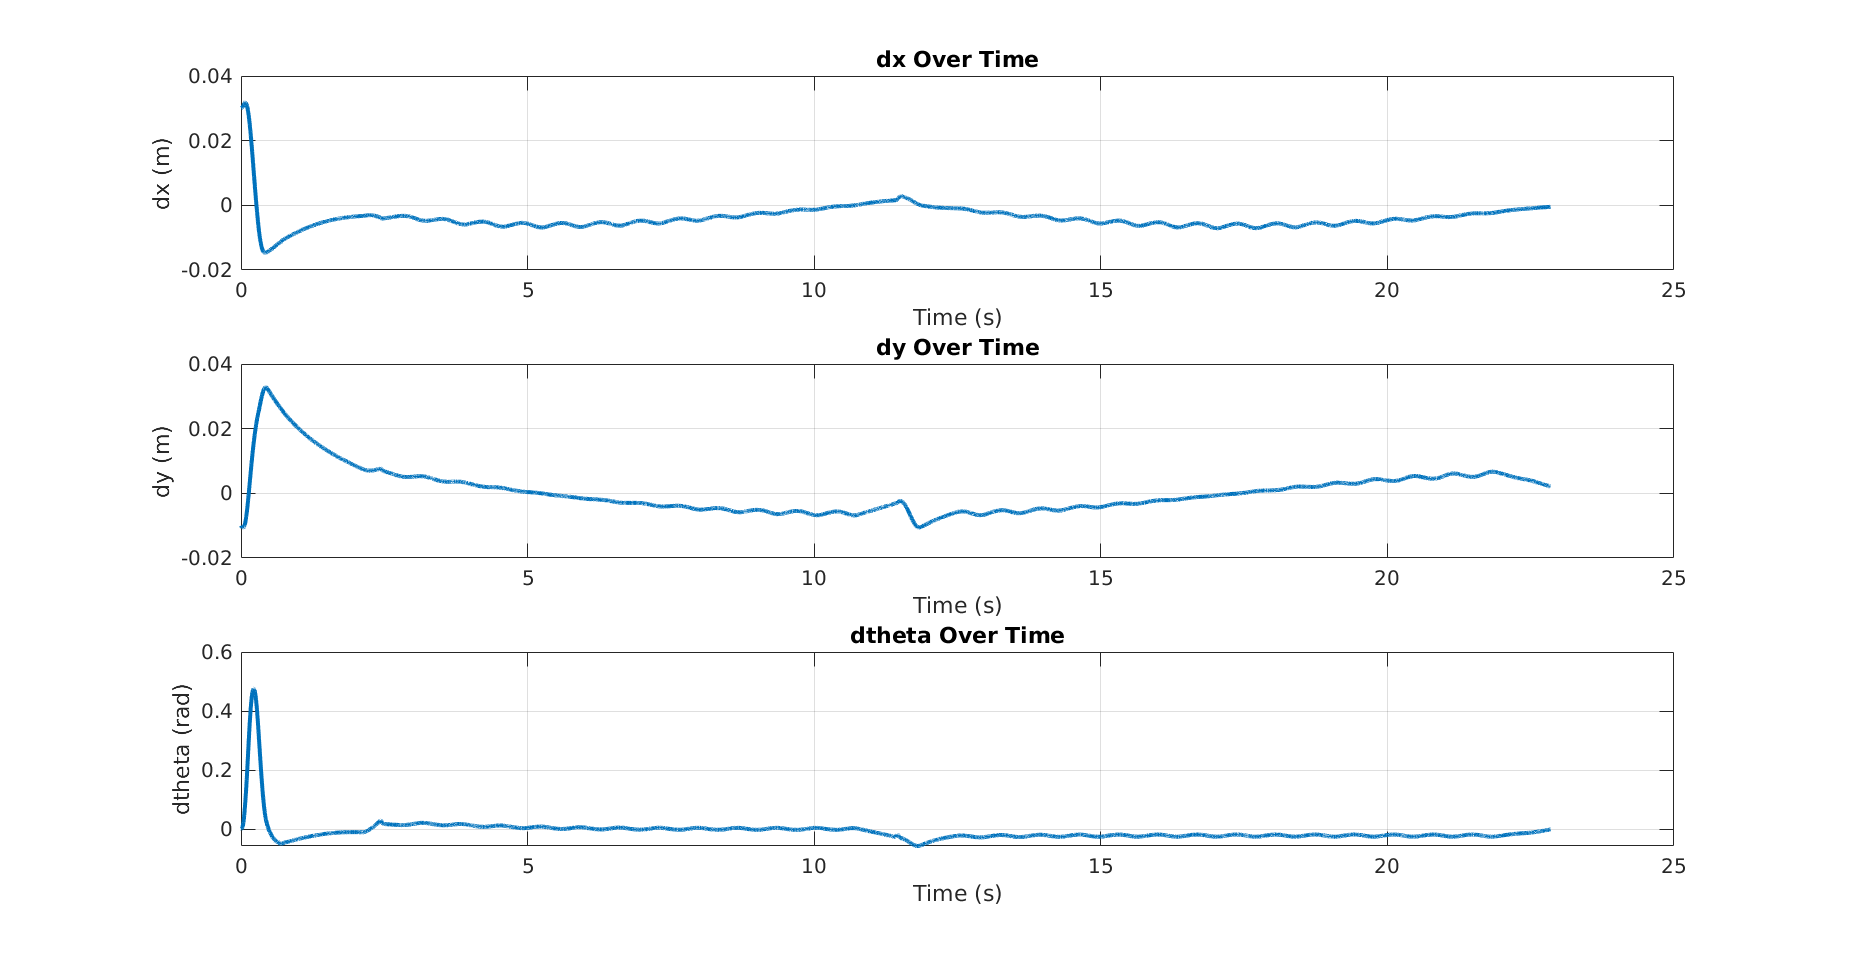
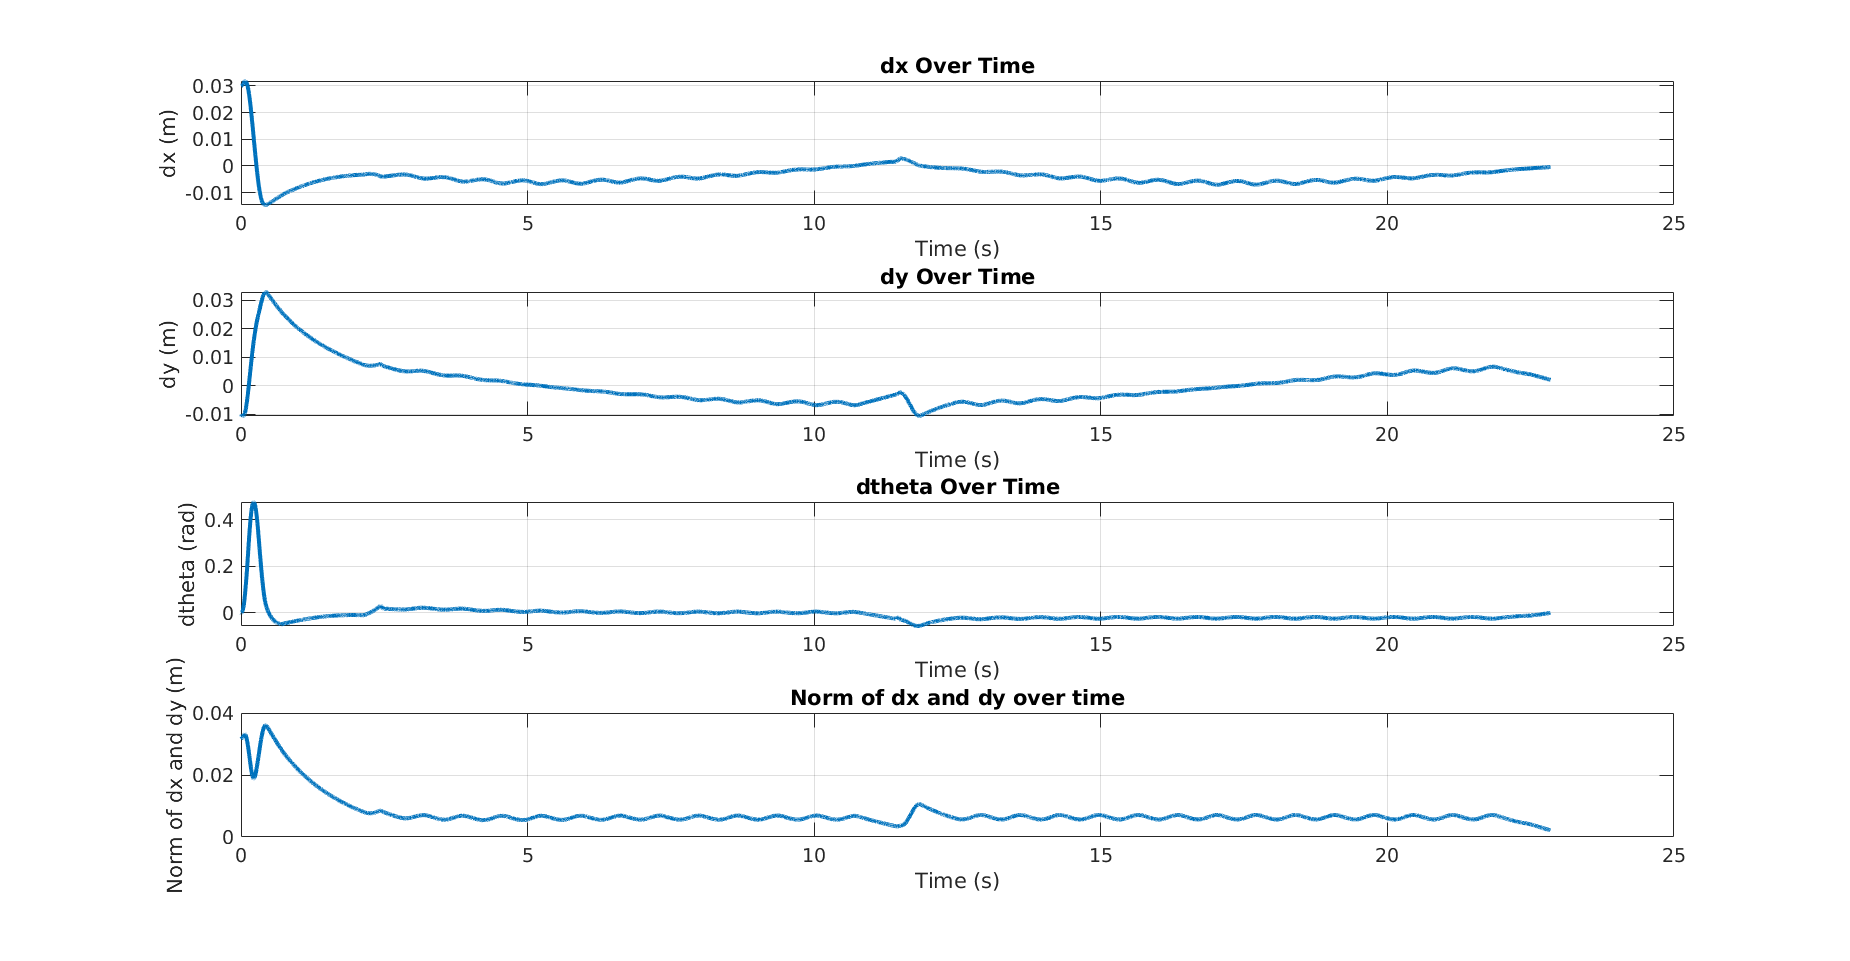
generate new plots

diff --git a/simulation_mpc_one_contact_point.m b/simulation_mpc_one_contact_point.m
@@ -113,9 +113,17 @@ for i = 1:floor(duration/timestep)
         [x_star_mpc, u_star_mpc] = create_mpc_star_input(x_star, u_star, ...
                                     N, i, timestep_parameter);
         tic;
-        mpc_output = solve_MPC_MIQP(x_star_mpc, u_star_mpc, dx(:,i), mu, L, ...
+        [mpc_output, gurobi_solve_time] = solve_MPC_MIQP(x_star_mpc, u_star_mpc, dx(:,i), mu, L, ...
                                            radius, len, N, mpc_timestep,  Q, QN, R, x_start, is_start);
-        solver_times(i) = toc;
+        if i == 1
+            solver_times(i) = toc;
+            gurobi_solve_times(i) = gurobi_solve_time;
+            mpc_activation(i) = 1;
+        else
+            solver_times(round(i * timestep / mpc_timestep)+1) = toc;
+            gurobi_solve_times(round(i * timestep / mpc_timestep)+1) = gurobi_solve_time;
+            mpc_activation(round(i * timestep / mpc_timestep)+1) = mpc_activation(round(i * timestep / mpc_timestep)) + 1;
+        end
         is_start = 0;
         fprintf('Time is: %g\n', time(i));
         fprintf('Error is: %2.4f %2.4f %2.4f %2.4f\n', dx(1,i), dx(2,i), dx(3,i), dx(4,i));
@@ -307,7 +315,7 @@ grid on;
 
 figure;
 % First subplot for dx over time
-subplot(3, 1, 1);
+subplot(4, 1, 1);
 plot(time(1:end-1), dx(1,:), 'LineWidth', 2);
 title('dx Over Time');
 xlabel('Time (s)');
@@ -315,7 +323,7 @@ ylabel('dx (m)');
 grid on;
 
 % Second subplot for dy over time
-subplot(3, 1, 2);
+subplot(4, 1, 2);
 plot(time(1:end-1), dx(2,:), 'LineWidth', 2);
 title('dy Over Time');
 xlabel('Time (s)');
@@ -323,11 +331,19 @@ ylabel('dy (m)');
 grid on;
 
 % Third subplot for dtheta over time
-subplot(3, 1, 3);
+subplot(4, 1, 3);
 plot(time(1:end-1), dx(3,:), 'LineWidth', 2);
 title('dtheta Over Time');
 xlabel('Time (s)');
 ylabel('dtheta (rad)');
+grid on;
+
+% Fourth subplot for torque on z-axis
+subplot(4,1,4);
+plot(time(1:end-1), sqrt(dx(1,:).^2 + dx(2,:).^2), 'LineWidth', 2);
+title('Norm of dx and dy over time');
+xlabel('Time (s)');
+ylabel('Norm of dx and dy (m)');
 grid on;
 
 %% Plot fn ft and phi_dot in seperate plots
@@ -356,6 +372,7 @@ title('phi dot Over Time');
 xlabel('Time (s)');
 ylabel('phi dot (rad/sec)');
 grid on;
+
 
 %% Plot dfn dft and dphi_dot in seperate plots
 
@@ -477,8 +494,6 @@ ylabel('Torque (Nm)');
 legend('Wrench', 'Ground Friction');
 grid on;
 
-sgtitle('Wrench and Ground Friction Forces and Torque over Time');
-
 %% Plots for debug
 
 figure;
@@ -486,5 +501,16 @@ plot(time(1:length(time)-1), j, 'LineWidth', 2);
 title('binary debug');
 xlabel('Time (s)');
 ylabel('on-off mode');
-legend('Ground Friction');
+grid on;
+
+%% Plots for solver times
+
+figure;
+plot(mpc_activation, solver_times, 'LineWidth', 2);
+hold on;
+plot(mpc_activation, gurobi_solve_times, 'LineWidth', 2);
+title('Solver time');
+xlabel('MPC activation number');
+ylabel('Time (s)');
+legend('Time By Matlab', 'Time By Gurobi');
 grid on;

diff --git a/solve_MPC_MIQP.m b/solve_MPC_MIQP.m
@@ -1,5 +1,5 @@
 % Define the MIQP solver function with Gurobi optimization
-function mpc_output = solve_MPC_MIQP(x_star, u_star, dx_0, mu, L, radius, len, N, timestep, Q, QN, R, x_start, is_start)
+function [mpc_output, gurobi_solve_time] = solve_MPC_MIQP(x_star, u_star, dx_0, mu, L, radius, len, N, timestep, Q, QN, R, x_start, is_start)
     % Q = 10 * diag([3, 3, 0.1, 0]);    % State cost matrix
     % QN = 2000 * diag([3, 3, 0.1, 0]);  % Terminal state cost matrix
     % R = 0.5 * diag([1, 1, 0]);        % Input cost matrix
@@ -163,7 +163,20 @@ function mpc_output = solve_MPC_MIQP(x_star, u_star, dx_0, mu, L, radius, len, N
     % Solve the problem with Gurobi
     result = gurobi(model, params);
     
-    disp(result.status)
+    % Retrieve the solve time from Gurobi's output
+    gurobi_solve_time = result.runtime;
+
+    % Check the solver status and process the result
+    disp(result.status);
+    if strcmp(result.status, 'OPTIMAL')
+        % Extract the optimal solution
+        mpc_output = result.x;
+    elseif strcmp(result.status, 'TIME_LIMIT')
+        warning('Gurobi did not find an optimal solution within the time limit. Status: %s', result.status);
+        mpc_output = [];
+    else
+        error('Gurobi solver failed with status: %s', result.status);
+    end
 
     % Check for solution feasibility
     if strcmp(result.status, 'OPTIMAL')
